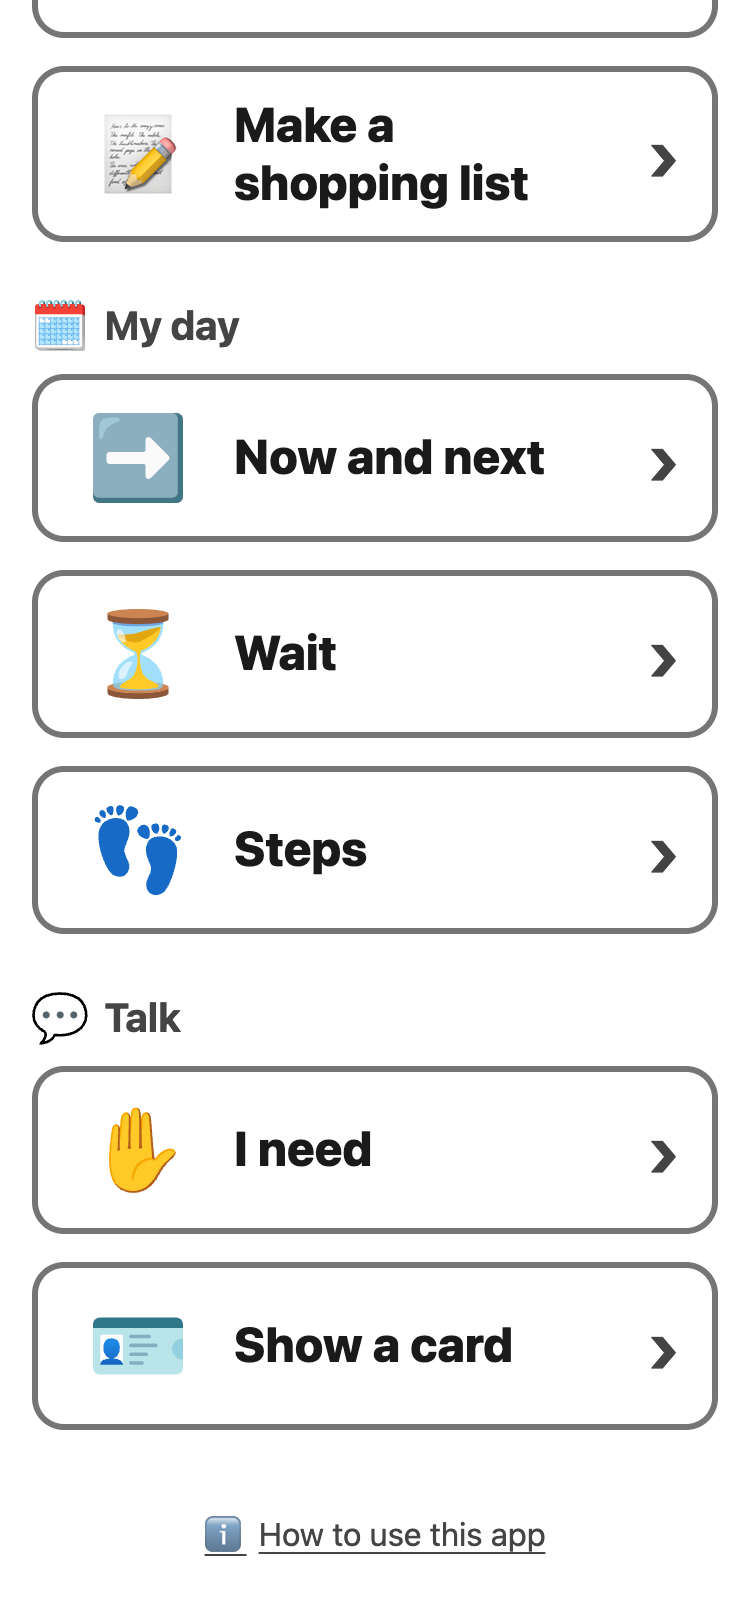
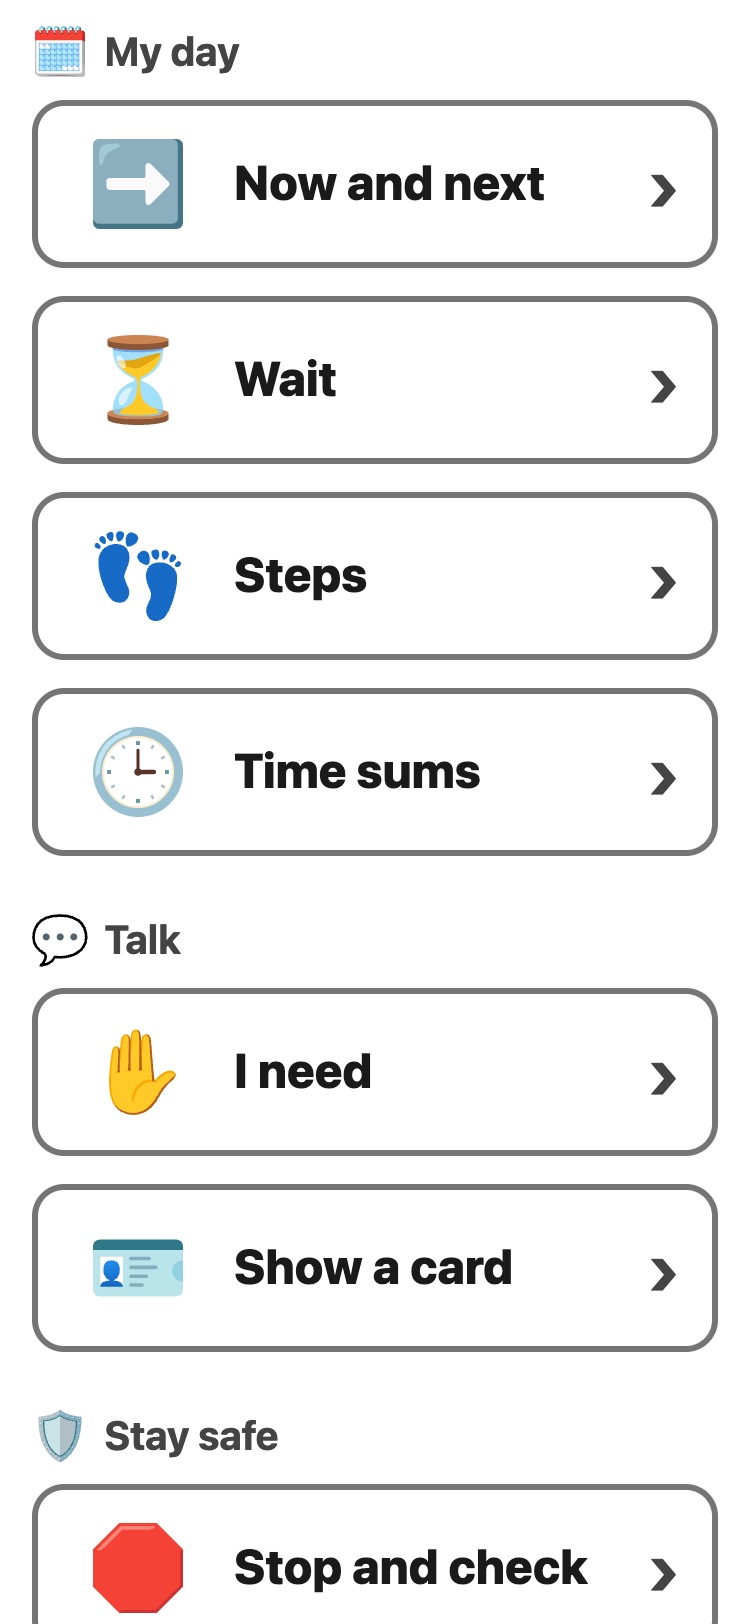
guide: Time sums, Stop and check, and tools tucked away on the menu

diff --git a/public/guide/time-sums.html b/public/guide/time-sums.html
@@ -1,0 +1,80 @@
+<!doctype html>
+<html lang="en-SG">
+
+<head>
+  <meta charset="utf-8">
+  <meta name="viewport" content="width=device-width, initial-scale=1, viewport-fit=cover">
+  <meta name="theme-color" content="#1565c0">
+  <meta name="description" content="Time sums: how long until a time, or what time it will be after some minutes.">
+  <title>Time sums — How to use Simplify</title>
+  <link rel="canonical" href="https://simplify.whiz.coach/guide/time-sums">
+  <link rel="manifest" href="/manifest.webmanifest">
+  <link rel="icon" href="/favicon.svg" type="image/svg+xml">
+  <link rel="apple-touch-icon" href="/img/icons/apple-touch-icon.png">
+  <link rel="stylesheet" href="/css/guide.css">
+</head>
+
+<body>
+
+  <header class="guide-header">
+    <a class="back-link" href="/guide"><span aria-hidden="true">←</span> Help menu</a>
+  </header>
+
+  <main>
+    <h1><img class="h1-pic" src="/img/pic/clock.svg" alt="" width="40" height="40"> Time sums</h1>
+
+    <p>Two questions about the clock. Tap the one you want at the top.</p>
+
+    <div class="figures">
+      <figure>
+        <img src="/img/guide/screen-time-sums.png" width="750" height="1624"
+          alt="Time sums, How long until? chosen. From 2:10 PM, Until 3:30 PM. The answer at the bottom: 1 hour 20 minutes, 2:10 pm to 3:30 pm.">
+        <figcaption>How long until?</figcaption>
+      </figure>
+      <figure>
+        <img src="/img/guide/screen-time-sums-after.png" width="750" height="1624"
+          alt="Time sums, What time after? chosen. From 3:50 PM, Add 20 minutes, with quick buttons 5 min, 10 min, 15 min and more. The answer: 4:10 pm, 20 minutes after 3:50 pm.">
+        <figcaption>What time after?</figcaption>
+      </figure>
+    </div>
+
+    <h2>How long until?</h2>
+    <ol class="steps">
+      <li><strong>From</strong> is the time now.</li>
+      <li>Tap <strong>Until</strong> and set a time, for example 3:30 pm.</li>
+      <li>The answer shows at the bottom: <strong>1 hour 20 minutes</strong>.</li>
+    </ol>
+
+    <h2>What time after?</h2>
+    <ol class="steps">
+      <li><strong>From</strong> is the time now.</li>
+      <li>Under <strong>Add</strong>, tap an amount like <strong>15 min</strong>,
+        or type the hours and minutes.</li>
+      <li>The answer shows at the bottom: <strong>4:10 pm</strong>.</li>
+    </ol>
+
+    <ul>
+      <li>To start from another time, tap the <strong>From</strong> box and
+        change it. <strong>Now</strong> puts it back to the time now.</li>
+      <li>A time earlier than From is tomorrow's: the answer says
+        <strong>tomorrow</strong>.</li>
+      <li>The round <strong>✕</strong> clears everything.
+        <strong>Put it back</strong> brings it back.</li>
+      <li>Next time, From starts at the time now again.</li>
+    </ul>
+
+    <div class="callout tip">💡 Try it with a real plan: "The bus comes at
+      4:15. How long until then?" Then look at a clock together.</div>
+
+    <p>To wait out the time with a shrinking disc, use
+      <a href="/guide/wait">Wait</a>.</p>
+
+    <nav class="page-end" aria-label="Where next">
+      <a class="open-app" href="/#time-sums"><img class="open-pic" src="/img/pic/clock.svg" alt="" width="32" height="32"> Open this tool</a>
+      <a class="back-link" href="/guide"><span aria-hidden="true">←</span> Help menu</a>
+    </nav>
+  </main>
+
+</body>
+
+</html>

diff --git a/public/guide/stop-check.html b/public/guide/stop-check.html
@@ -1,0 +1,71 @@
+<!doctype html>
+<html lang="en-SG">
+
+<head>
+  <meta charset="utf-8">
+  <meta name="viewport" content="width=device-width, initial-scale=1, viewport-fit=cover">
+  <meta name="theme-color" content="#1565c0">
+  <meta name="description" content="Stop and check: when someone asks for a code, money, photos or to meet, stop and show a trusted adult.">
+  <title>Stop and check — How to use Simplify</title>
+  <link rel="canonical" href="https://simplify.whiz.coach/guide/stop-check">
+  <link rel="manifest" href="/manifest.webmanifest">
+  <link rel="icon" href="/favicon.svg" type="image/svg+xml">
+  <link rel="apple-touch-icon" href="/img/icons/apple-touch-icon.png">
+  <link rel="stylesheet" href="/css/guide.css">
+</head>
+
+<body>
+
+  <header class="guide-header">
+    <a class="back-link" href="/guide"><span aria-hidden="true">←</span> Help menu</a>
+  </header>
+
+  <main>
+    <h1><img class="h1-pic" src="/img/pic/stop.svg" alt="" width="40" height="40"> Stop and check</h1>
+
+    <p>For when someone — a message, a call, a new friend online — asks
+      for something they should not have.</p>
+
+    <div class="figures">
+      <figure>
+        <img src="/img/guide/screen-stop-check.png" width="750" height="1624"
+          alt="Stop and check: Someone asked me for, then ten buttons with pictures: A code (OTP), Singpass or IC, My password, My card number, Send money, Tap a link, Photos of me, Meet up, Keep a secret, I won a prize.">
+        <figcaption>What did they ask for?</figcaption>
+      </figure>
+      <figure>
+        <img src="/img/guide/screen-stop-check-card.png" width="750" height="1624"
+          alt="A stop sign filling the screen: STOP. Show a trusted adult. Never tell anyone a code sent to your phone. Not the bank. Not the police. No adult near? Call 1799, the ScamShield Helpline.">
+        <figcaption>Stop, and show an adult</figcaption>
+      </figure>
+    </div>
+
+    <ol class="steps">
+      <li>Tap what they asked for, for example <strong>A code (OTP)</strong>.</li>
+      <li>The card says <strong>STOP. Show a trusted adult.</strong> and the
+        rule for that: never tell anyone a code.</li>
+      <li>Show the card, and the message, to a trusted adult.</li>
+    </ol>
+
+    <ul>
+      <li>No adult near? The card says to call <strong>1799</strong>, the
+        ScamShield Helpline. It is free and open all day and night.</li>
+      <li><strong>Turn around</strong> turns the card for the person opposite.
+        <strong>Speak</strong> reads it out (if it is on, on the
+        <a href="/guide/set-up">set-up page</a>).</li>
+      <li>Nothing is saved: not what was tapped, nor when.</li>
+    </ul>
+
+    <div class="callout key">For adults: practise it together before it is
+      needed — "Someone sends a message: you won a prize, send a code to get
+      it. What do you tap?" The police, banks and the government never ask
+      for a code, a password or a money transfer by phone or message.</div>
+
+    <nav class="page-end" aria-label="Where next">
+      <a class="open-app" href="/#stop-check"><img class="open-pic" src="/img/pic/stop.svg" alt="" width="32" height="32"> Open this tool</a>
+      <a class="back-link" href="/guide"><span aria-hidden="true">←</span> Help menu</a>
+    </nav>
+  </main>
+
+</body>
+
+</html>

diff --git a/public/guide/menu.html b/public/guide/menu.html
@@ -24,8 +24,8 @@
     <h1><span aria-hidden="true">🏠</span> The menu</h1>
 
     <p>The app opens on its menu: one big button for each tool, in groups —
-      <strong>Money</strong>, <strong>My day</strong> and
-      <strong>Talk</strong>.</p>
+      <strong>Money</strong>, <strong>My day</strong>, <strong>Talk</strong>
+      and <strong>Stay safe</strong>.</p>
 
     <div class="figures">
       <figure>
@@ -35,8 +35,8 @@
       </figure>
       <figure>
         <img src="/img/guide/screen-menu-more.png" width="750" height="1624"
-          alt="Further down the menu. Under My day: Now and next, Wait and Steps. Under Talk: I need and Show a card.">
-        <figcaption>Then My day and Talk</figcaption>
+          alt="Further down the menu. Under My day: Now and next, Wait, Steps and Time sums. Under Talk: I need and Show a card. Under Stay safe: Stop and check.">
+        <figcaption>Then My day, Talk and Stay safe</figcaption>
       </figure>
     </div>
 
@@ -54,8 +54,20 @@
       for a few seconds, in case you did not mean to.</p>
 
     <p>A device that follows a class has <a href="/guide/my-class">My
-        class</a> at the top of the menu. An adult can take tools off the
-      menu on the <a href="/guide/set-up">set-up page</a>.</p>
+        class</a> at the top of the menu.</p>
+
+    <h2>Tools taken off the menu</h2>
+    <p>An adult can take tools off the menu on the
+      <a href="/guide/set-up">set-up page</a>. They are not gone: a small
+      <strong>＋2</strong> beside the group's name shows how many are tucked
+      away. Tap it to see them, under the group's own tools, with a dashed
+      edge. Tap <strong>−2</strong> to put them away again. They are put
+      away each time you come back to the menu.</p>
+    <figure>
+      <img src="/img/guide/screen-menu-tucked.png" width="750" height="1624"
+        alt="The menu with Next dollar and Next note taken off it: under Money, four tools, and the −2 button beside Money opened, showing Next dollar and Next note with dashed edges below them.">
+      <figcaption>Money's ＋2, opened</figcaption>
+    </figure>
 
     <p>For teachers: every tool has its own link, like
       <strong>simplify.whiz.coach/#next-note</strong>. Share it to open that

diff --git a/public/guide.html b/public/guide.html
@@ -64,6 +64,8 @@
             <span class="topic-icon" aria-hidden="true"><img src="/img/pic/more-time.svg" alt="" width="44" height="44"></span> Wait</a></li>
         <li><a class="topic" href="/guide/steps">
             <span class="topic-icon" aria-hidden="true"><img src="/img/pic/menu-steps.svg" alt="" width="44" height="44"></span> Steps</a></li>
+        <li><a class="topic" href="/guide/time-sums">
+            <span class="topic-icon" aria-hidden="true"><img src="/img/pic/clock.svg" alt="" width="44" height="44"></span> Time sums</a></li>
       </ul>
 
       <h2 class="group-label">Talk</h2>
@@ -72,6 +74,12 @@
             <span class="topic-icon" aria-hidden="true"><img src="/img/pic/menu-i-need.svg" alt="" width="44" height="44"></span> I need</a></li>
         <li><a class="topic" href="/guide/show-card">
             <span class="topic-icon" aria-hidden="true"><img src="/img/pic/menu-show-card.svg" alt="" width="44" height="44"></span> Show a card</a></li>
+      </ul>
+
+      <h2 class="group-label">Stay safe</h2>
+      <ul class="topics">
+        <li><a class="topic" href="/guide/stop-check">
+            <span class="topic-icon" aria-hidden="true"><img src="/img/pic/stop.svg" alt="" width="44" height="44"></span> Stop and check</a></li>
       </ul>
 
       <h2 class="group-label">My class</h2>

diff --git a/public/guide/set-up.html b/public/guide/set-up.html
@@ -60,7 +60,9 @@
 
     <ul>
       <li><strong>Show on the menu</strong>: turn a tool off to take it off
-        the menu.</li>
+        the menu. It is tucked away under a small <strong>＋</strong> beside
+        its group's name, for when it is needed
+        (<a href="/guide/menu">the menu</a>).</li>
       <li><strong>Pictures only (hide words)</strong>: for a student who does
         not read. Screen readers still read the words.</li>
       <li><strong>Speak button on cards</strong>: the Speak button on I need
